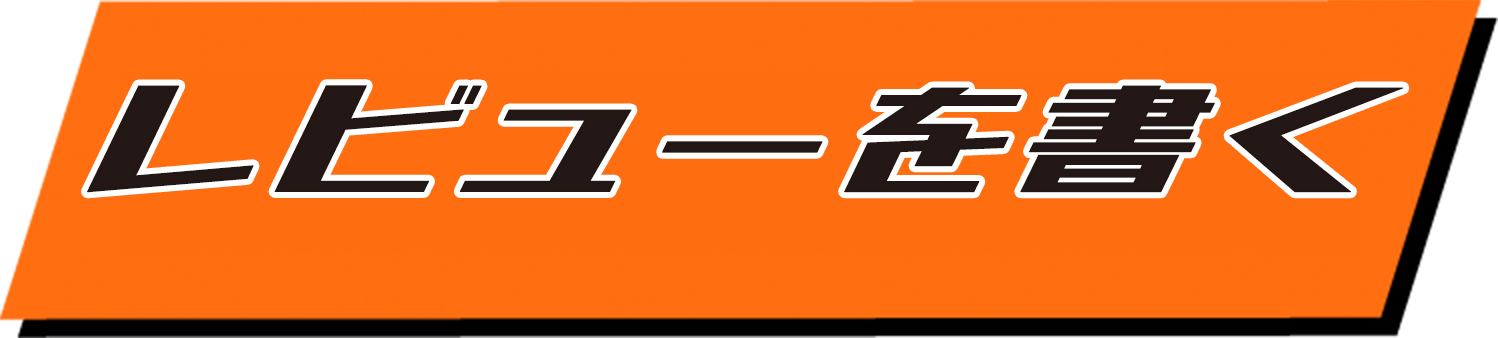
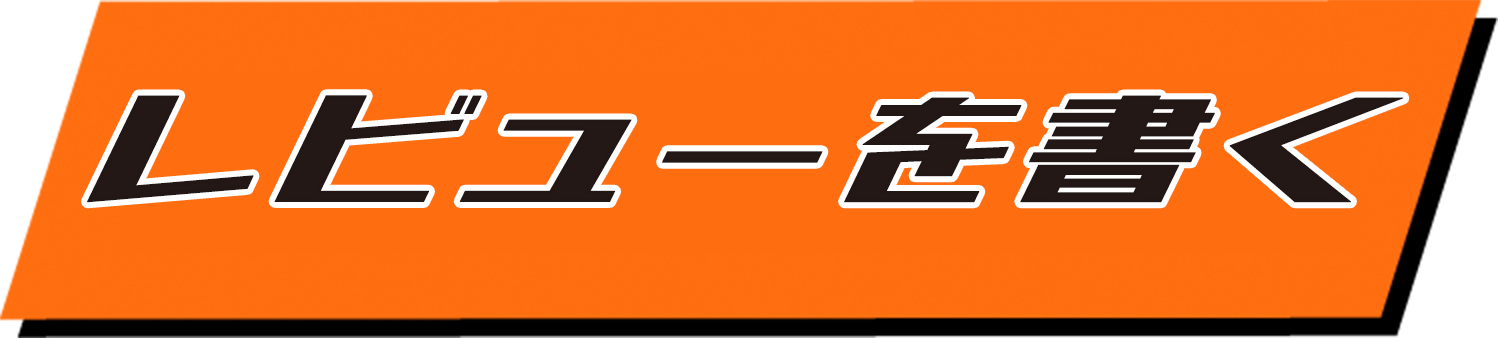
プライバシーポリシー 1.0.4

Changed region(s): [[0.0307, 0.2367, 0.9519, 0.6213]]

diff --git a/Assets/Scripts/SettingsSceneManager.cs b/Assets/Scripts/SettingsSceneManager.cs
@@ -9,6 +9,8 @@ public class SettingsSceneManager : MonoBehaviour, IStoreListener
     public Button removeAdsButton;
     public Button restorePurchasesButton;
     public Button writeReviewButton;
+    public Button toTitleButton;
+    public Button termsAndPrivacyButton;
 
     // Unity IAP 関連
     private IStoreController storeController;
@@ -23,6 +25,8 @@ public class SettingsSceneManager : MonoBehaviour, IStoreListener
         removeAdsButton.onClick.AddListener(OnRemoveAdsButtonClicked);
         restorePurchasesButton.onClick.AddListener(OnRestorePurchasesButtonClicked);
         writeReviewButton.onClick.AddListener(OnWriteReviewButtonClicked);
+        toTitleButton.onClick.AddListener(ToTitleButtonTapped);
+        termsAndPrivacyButton.onClick.AddListener(OnTermsAndPrivacyButtonClicked);
 
         // Unity IAP の初期化
         InitializePurchasing();
@@ -120,6 +124,12 @@ public class SettingsSceneManager : MonoBehaviour, IStoreListener
 #endif
     }
 
+    // 「利用規約・プライバシーポリシー」ボタンがクリックされたとき
+    public void OnTermsAndPrivacyButtonClicked()
+    {
+        Application.OpenURL("https://infinity888.jp/products/spinningball/");
+    }
+
     // IStoreListener の実装
     public void OnInitialized(IStoreController controller, IExtensionProvider extensions)
     {
@@ -138,11 +148,6 @@ public class SettingsSceneManager : MonoBehaviour, IStoreListener
         if (String.Equals(args.purchasedProduct.definition.id, removeAdsProductID, StringComparison.Ordinal))
         {
             Debug.Log("広告削除の購入が成功しました");
-
-            // 広告を削除する処理をここに追加
-            // 例: ゲーム内で広告を表示するスクリプトのフラグをオフにする
-            // AdManager.Instance.DisableAds();
-
             // 購入情報を保存
             PlayerPrefs.SetInt("AdsRemoved", 1);
             PlayerPrefs.Save();
@@ -178,9 +183,9 @@ public class SettingsSceneManager : MonoBehaviour, IStoreListener
         {
             if (InterstitialAdManager.Instance.IsReady)
             {
-                Debug.Log("インタースティシャル");
-                InterstitialAdManager.Instance.ShowInterstitial();
+                Debug.Log("インタースティシャル広告を表示します");
                 InterstitialAdManager.Instance.OnAdClosed += OnInterstitialAdClosed;
+                InterstitialAdManager.Instance.ShowInterstitial();
             }
             else
             {
